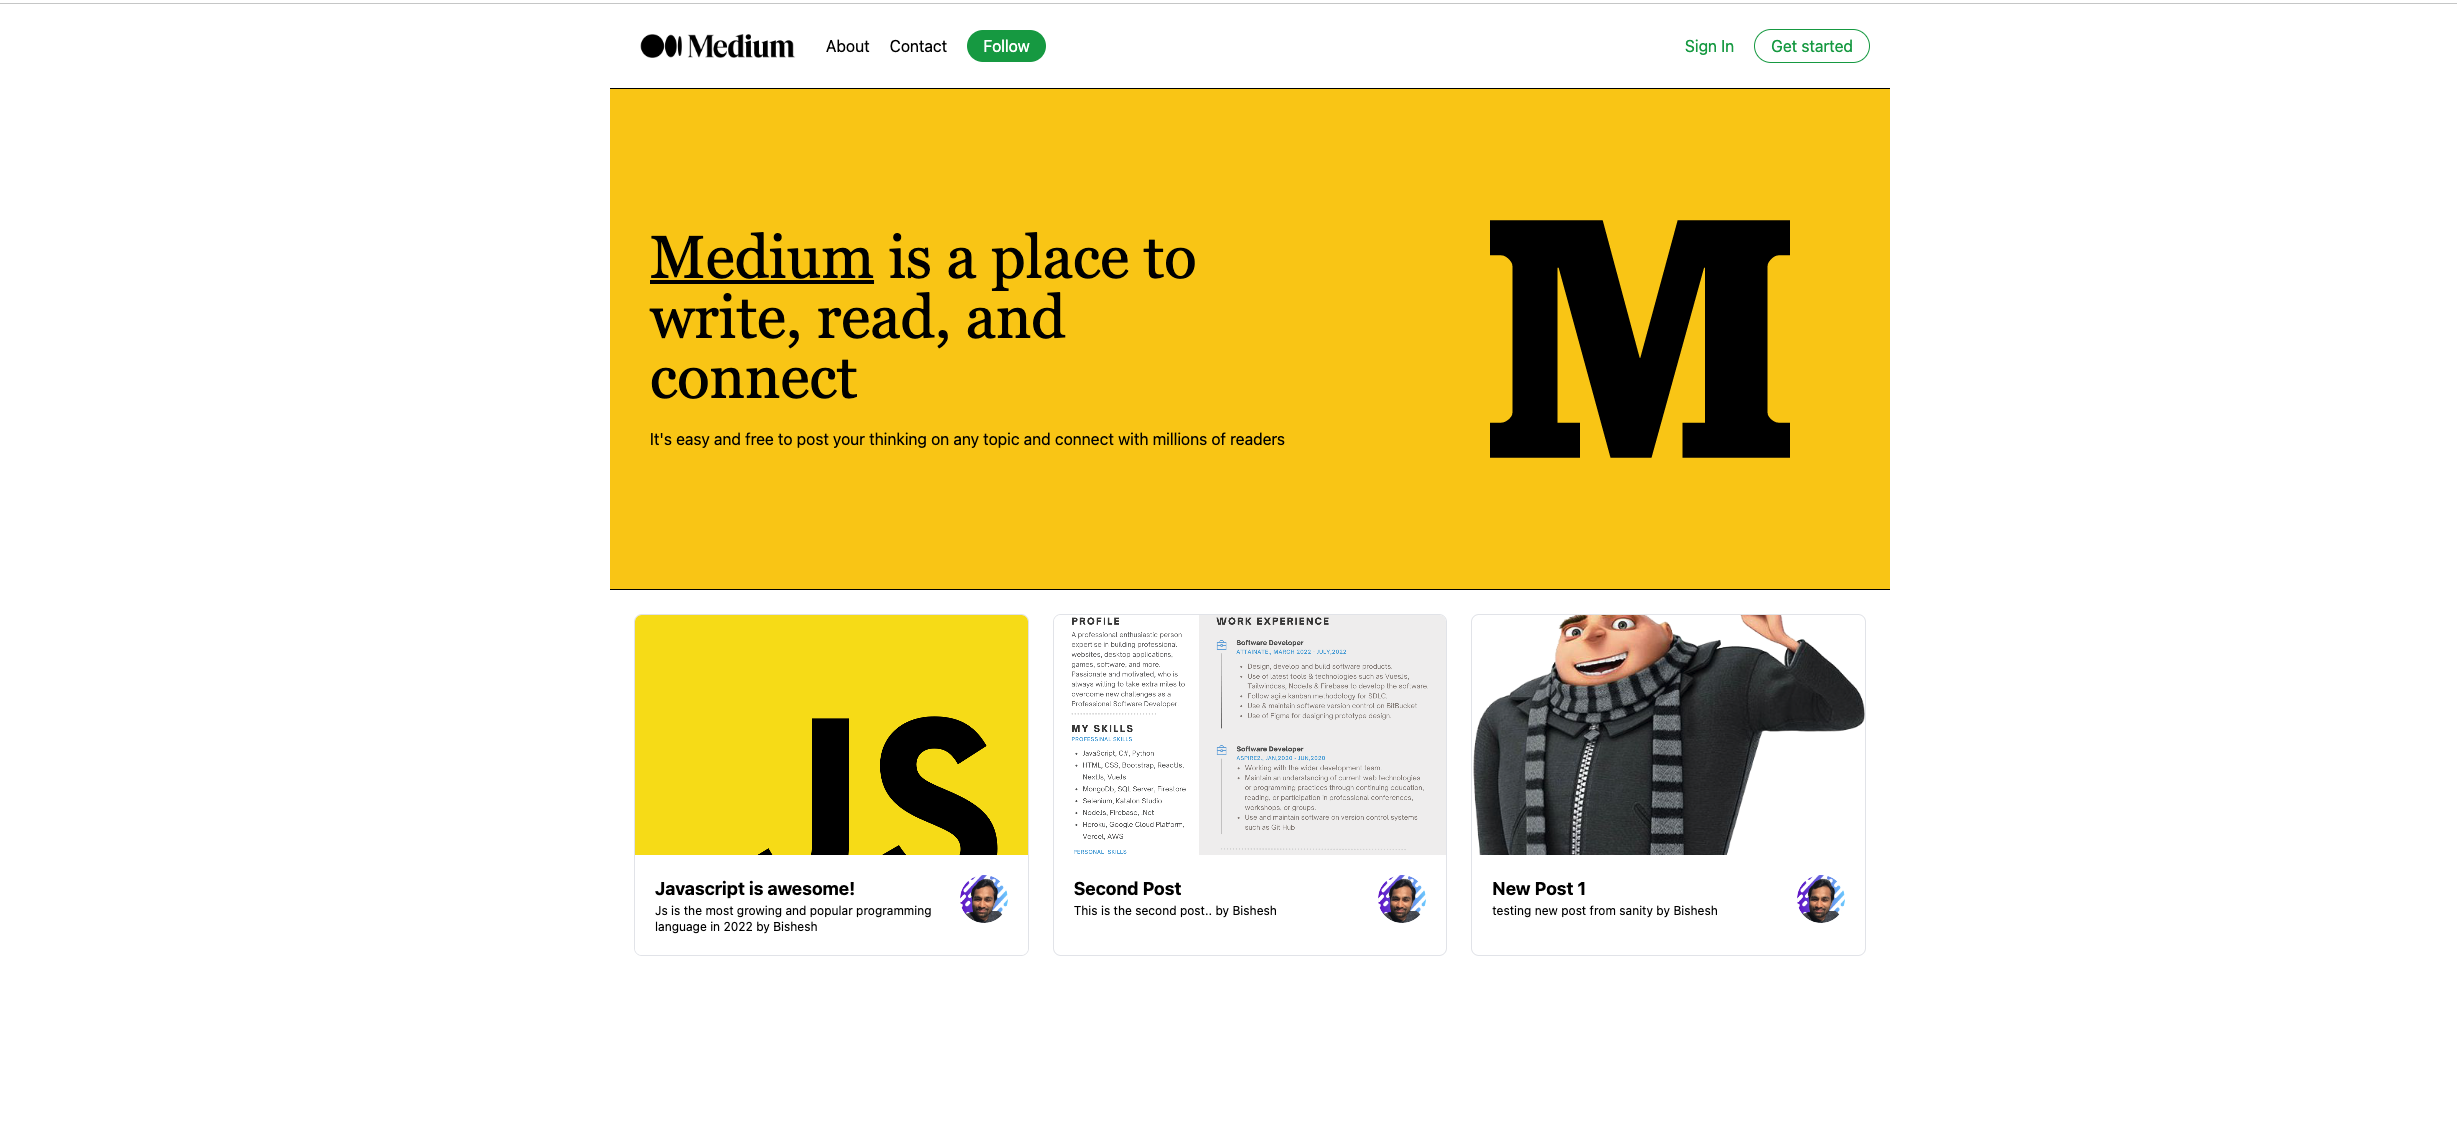
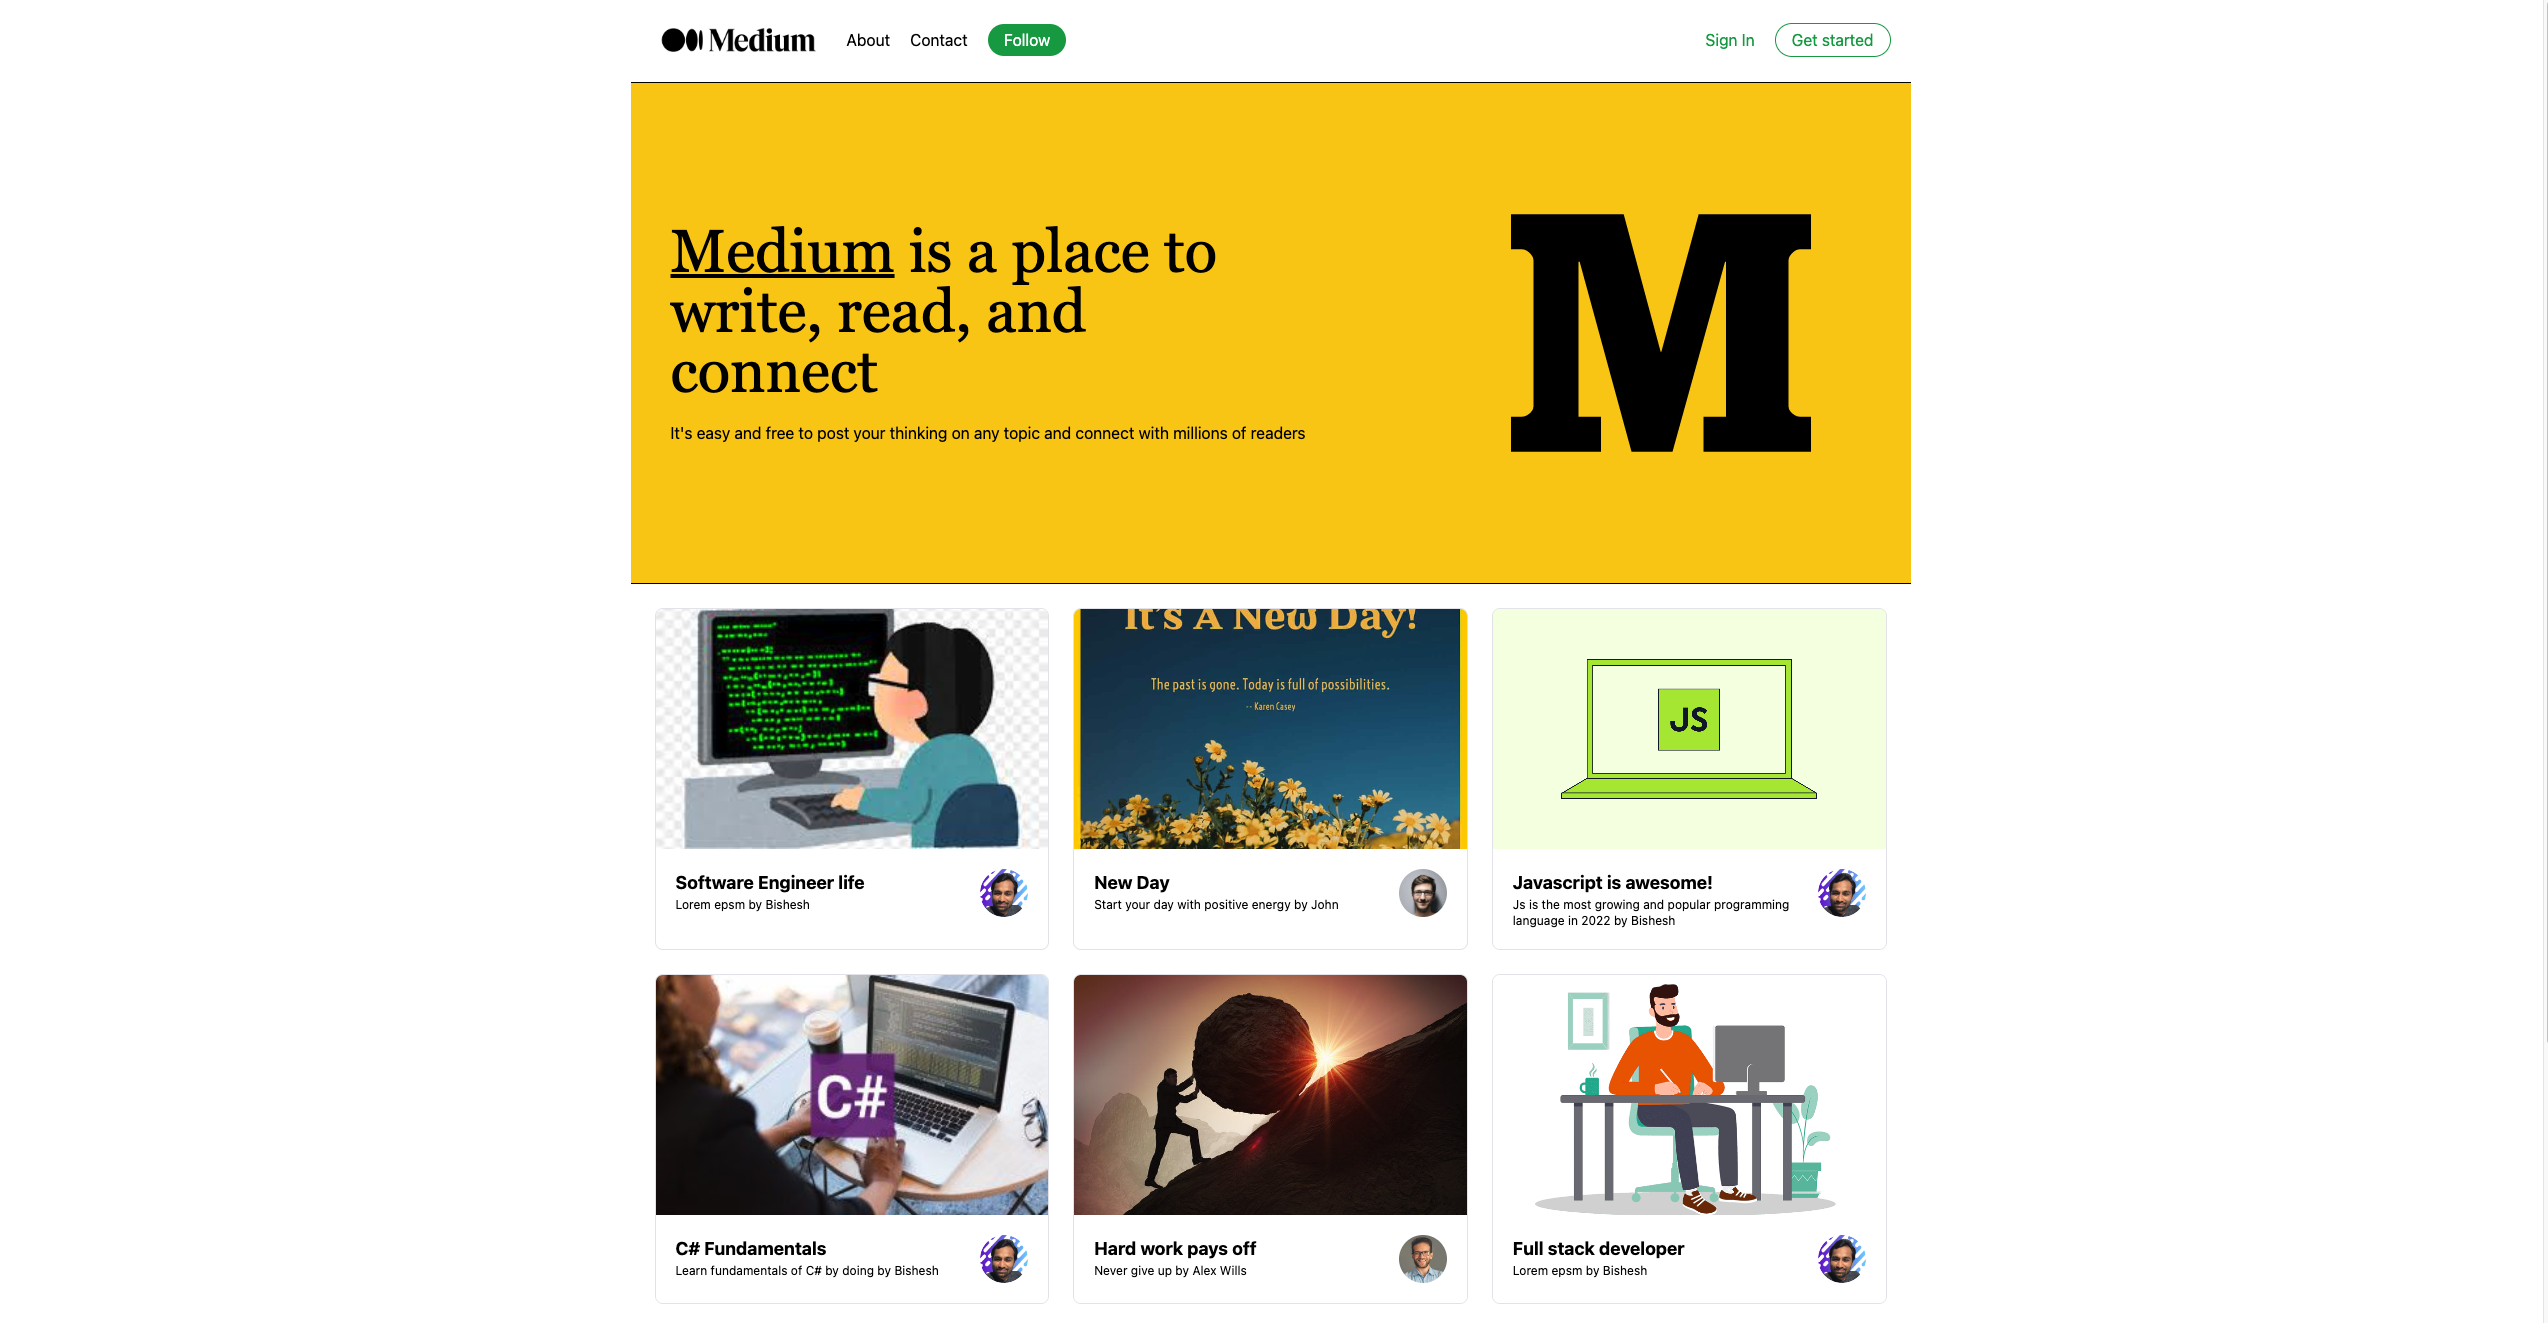
modified project details on project component

Changed region(s): [[0.2475, 0.0, 0.7733, 0.9799], [0.2475, 0.1531, 0.5258, 0.3981]]

diff --git a/components/Projects.js b/components/Projects.js
@@ -106,21 +106,7 @@ function Projects() {
       code: 'https://github.com/Bishesh58/medium-next',
       demo: 'https://medium-next-olive.vercel.app/',
     },
-    {
-      title: 'Netflix Clone',
-      technologies: 'JavaScript | NodeJs | Express | MongoDB',
-      icons: [
-        'logos:javascript',
-        'logos:nodejs-icon',
-        'logos:express',
-        'logos:mongodb-icon',
-      ],
-      description: `This is a netflix looking application which uses the movie database API to pull movie informations. User can register and login into his/her account. Movies are filtered according to categories such as trending, genre, and so on. User's details are sotred on mongodb database.This application was build as a part of learning vanilla javascript project that uses node and express for backend.
-      `,
-      imgs: ['/netflix.png'],
-      code: 'https://github.com/Bishesh58/pwj-netflix-clone-api',
-      demo: 'https://netflix5858.netlify.app/login.html',
-    },
+
     {
       title: 'Dog meetup app',
       technologies: 'MongoDB | Express | React | Node | - MERN',
@@ -138,6 +124,21 @@ function Projects() {
       imgs: ['/dogmeetup/dogmeetup1.png', '/dogmeetup/dogmeetup2.png'],
       code: 'https://github.com/Bishesh58/Dog-meetup',
       demo: 'https://dogmeetup-app.herokuapp.com/',
+    },
+    {
+      title: 'React todolist application',
+      technologies: 'React | NodeJs | Express | Material UI |',
+      icons: [
+        'logos:react',
+        'logos:nodejs-icon',
+        'logos:express',
+        'logos:material-ui',
+      ],
+      description: `This is a simple todo application using react and atoms. Simple CRUD application with filtering functionality. It also show the percentage of the task completed. An open quote api is used to generate automated quotes, user also has ability to change as quotes which button click.
+      `,
+      imgs: ['/todos.png'],
+      code: 'https://github.com/Bishesh58/react-todos',
+      demo: 'https://happy-murdock-374a4e.netlify.app/',
     },
     {
       title: 'SnapChat like app',
@@ -169,30 +170,6 @@ function Projects() {
       code: 'https://github.com/Bishesh58/whatsApp-clone',
       demo: 'https://whatsapp-clone-ef2ab.firebaseapp.com/',
     },
-    // {
-    //   title: 'Face recognition app',
-    //   technologies: 'React | Node | Express | PostgreSQL | Heroku ',
-    //   icons: [
-    //     'vscode-icons:file-type-reactjs',
-    //     'logos:nodejs',
-    //     'logos:express',
-    //     'logos:postgresql',
-    //     'logos:heroku-icon',
-    //   ],
-    //   description: `This is a react application which uses a clarifai API to detect a face on image. You can register and login into your account. You can detect face on image using image url. A rectangle border will be printed on the top of image. For storing user's details postgreSQL is used. This app is hosted on heroku.
-    //   `,
-    //   imgs: [
-    //     '/amazon.png',
-    //     '/amazon.png',
-    //     '/amazon.png',
-    //     '/amazon.png',
-    //     '/amazon.png',
-    //     '/amazon.png',
-    //     '/amazon.png',
-    //   ],
-    //   code: 'https://github.com/',
-    //   demo: 'https://facedetect-reactapp.herokuapp.com/',
-    // },
   ]
 
   return (
